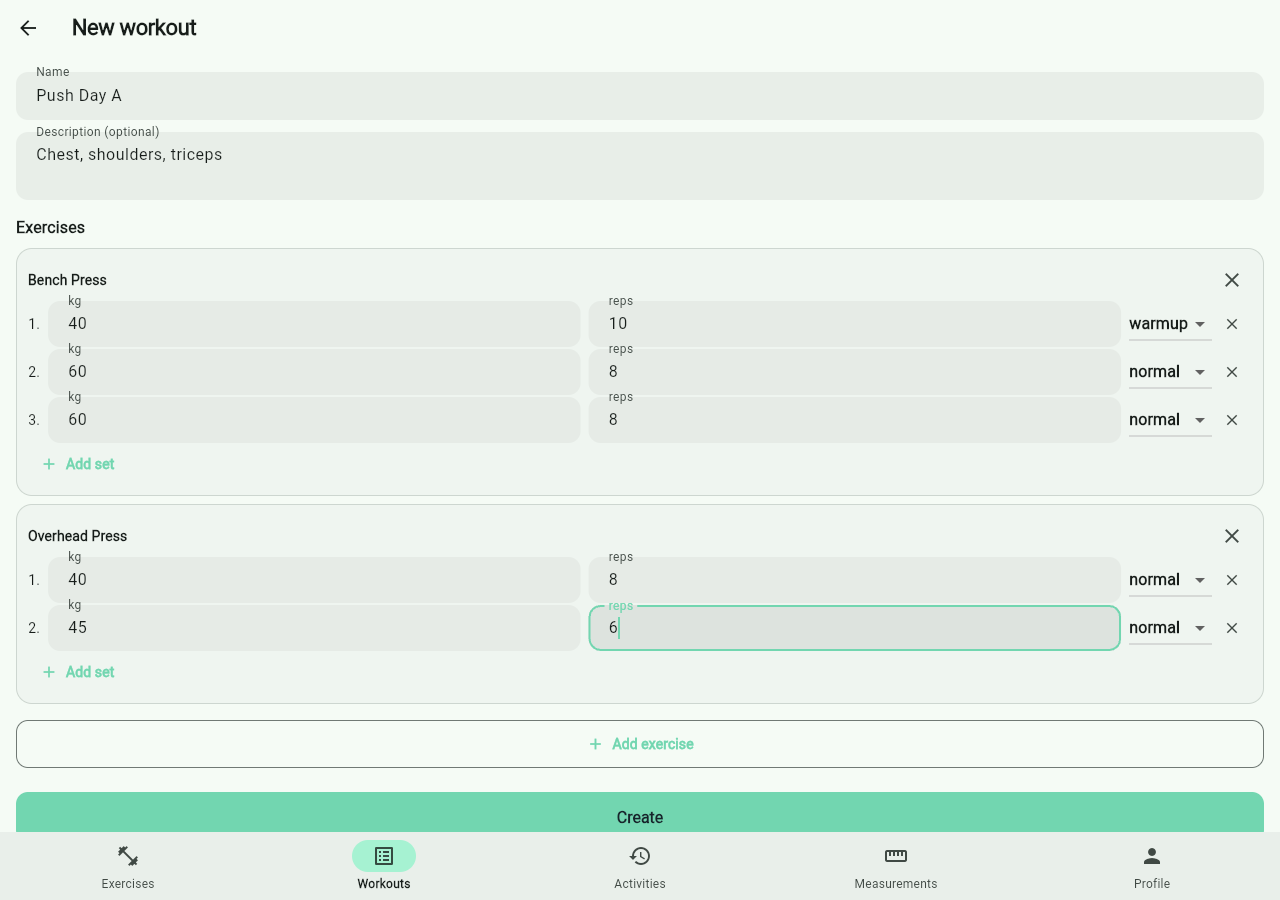
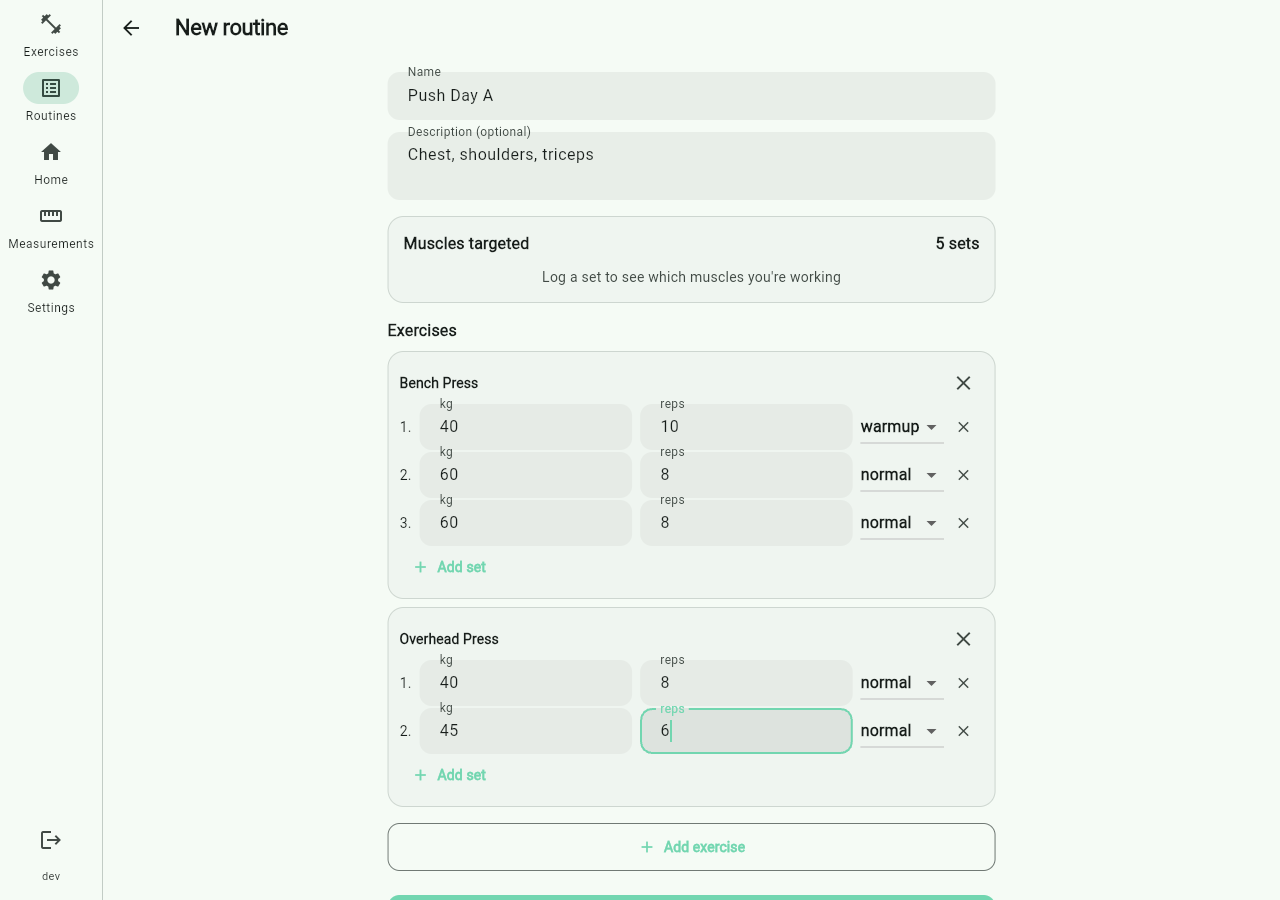
Regenerate screenshots and fix the generator for the current UI

diff --git a/screenshots/generate.py b/screenshots/generate.py
@@ -254,8 +254,17 @@ def _create_exercise(page: Page, name: str) -> None:
     page.wait_for_timeout(500)
 
 
+# Top-level destinations, in the order the shell draws them.
+_TABS = ["Exercises", "Routines", "Home", "Measurements", "Settings"]
+
+
 def _goto_tab(page: Page, name: str) -> None:
-    page.get_by_role("tab", name=name).click()
+    """The wide layout's side rail is not in the accessibility tree at all (no
+    role, no label), so it is pressed where it is drawn: equal-height
+    destinations down the left edge. Same workaround as e2e/test_onboarding.py;
+    this viewport is wide, so the bottom bar's `tab` role is never an option.
+    """
+    page.mouse.click(51, 34 + 64 * _TABS.index(name))
     page.wait_for_timeout(300)
 
 
@@ -317,7 +326,8 @@ def run_browser_flow(base_url: str, output_dir: Path) -> dict[str, Path]:
             page.wait_for_timeout(300)
             bench = page.get_by_role("group", name="Bench Press")
             for _ in range(3):
-                bench.get_by_role("button", name="Add set").click()
+                bench.get_by_role("button", name="Add set").dispatch_event("click")
+                page.wait_for_timeout(250)
             _fill_set(bench, 0, "40", "10")
             _fill_set(bench, 1, "60", "8")
             _fill_set(bench, 2, "60", "8")
@@ -329,7 +339,8 @@ def run_browser_flow(base_url: str, output_dir: Path) -> dict[str, Path]:
             page.wait_for_timeout(300)
             overhead = page.get_by_role("group", name="Overhead Press")
             for _ in range(2):
-                overhead.get_by_role("button", name="Add set").click()
+                overhead.get_by_role("button", name="Add set").dispatch_event("click")
+                page.wait_for_timeout(250)
             _fill_set(overhead, 0, "40", "8")
             _fill_set(overhead, 1, "45", "6")
 
@@ -341,7 +352,7 @@ def run_browser_flow(base_url: str, output_dir: Path) -> dict[str, Path]:
             page.wait_for_timeout(1000)
 
             _goto_tab(page, "Home")
-            page.get_by_role("button", name="New activity").click()
+            page.get_by_role("button", name="Log a past activity").click()
             page.wait_for_timeout(400)
             _fill(page.get_by_role("textbox", name="Title"), ROUTINE_NAME)
             page.get_by_role("button", name="Start from a saved routine").click()
@@ -351,6 +362,12 @@ def run_browser_flow(base_url: str, output_dir: Path) -> dict[str, Path]:
 
             # A realistic tweak: the last Overhead Press set went a little
             # heavier than planned that day.
+            # The form is taller than the viewport now; the field sits at its very
+            # bottom edge, where the click lands on the wrong set. Scroll it
+            # comfortably into view first.
+            page.mouse.move(690, 500)
+            page.mouse.wheel(0, 250)
+            page.wait_for_timeout(500)
             activity_overhead = page.get_by_role("group", name="Overhead Press")
             _fill(activity_overhead.get_by_role("textbox", name="kg").nth(1), "47.5")
 
@@ -380,7 +397,7 @@ def _readme_block(names: list[str]) -> str:
         stem, caption = SCREENSHOTS[name]
         cells.append(
             f'<td align="center" width="50%">\n'
-            f'<img src="screenshots/{stem}.png" width="380"><br>\n'
+            f'<img alt="{caption}" src="screenshots/{stem}.png" width="380"><br>\n'
             f"<sub>{caption}</sub>\n"
             f"</td>"
         )

diff --git a/README.md b/README.md
@@ -28,7 +28,7 @@ Android, and Linux desktop).
 <sub>Building a saved routine</sub>
 </td>
 <td align="center" width="50%">
-<img alt="Logging an activity from a routine" src="screenshots/routine-execution.png" width="380"><br>
+<img alt="Logging an activity from it" src="screenshots/routine-execution.png" width="380"><br>
 <sub>Logging an activity from it</sub>
 </td>
 </tr>
